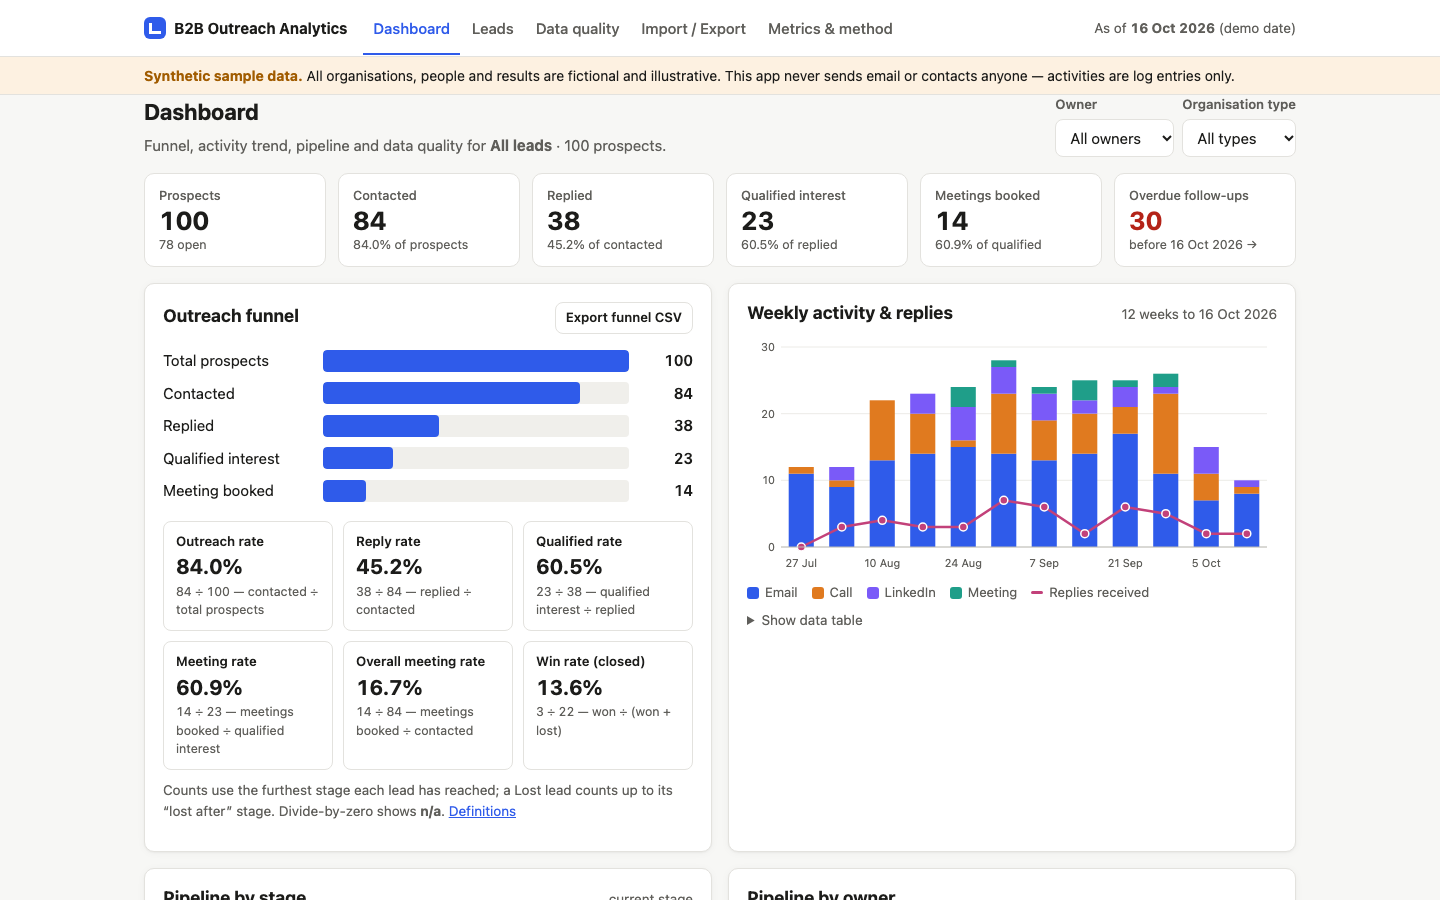
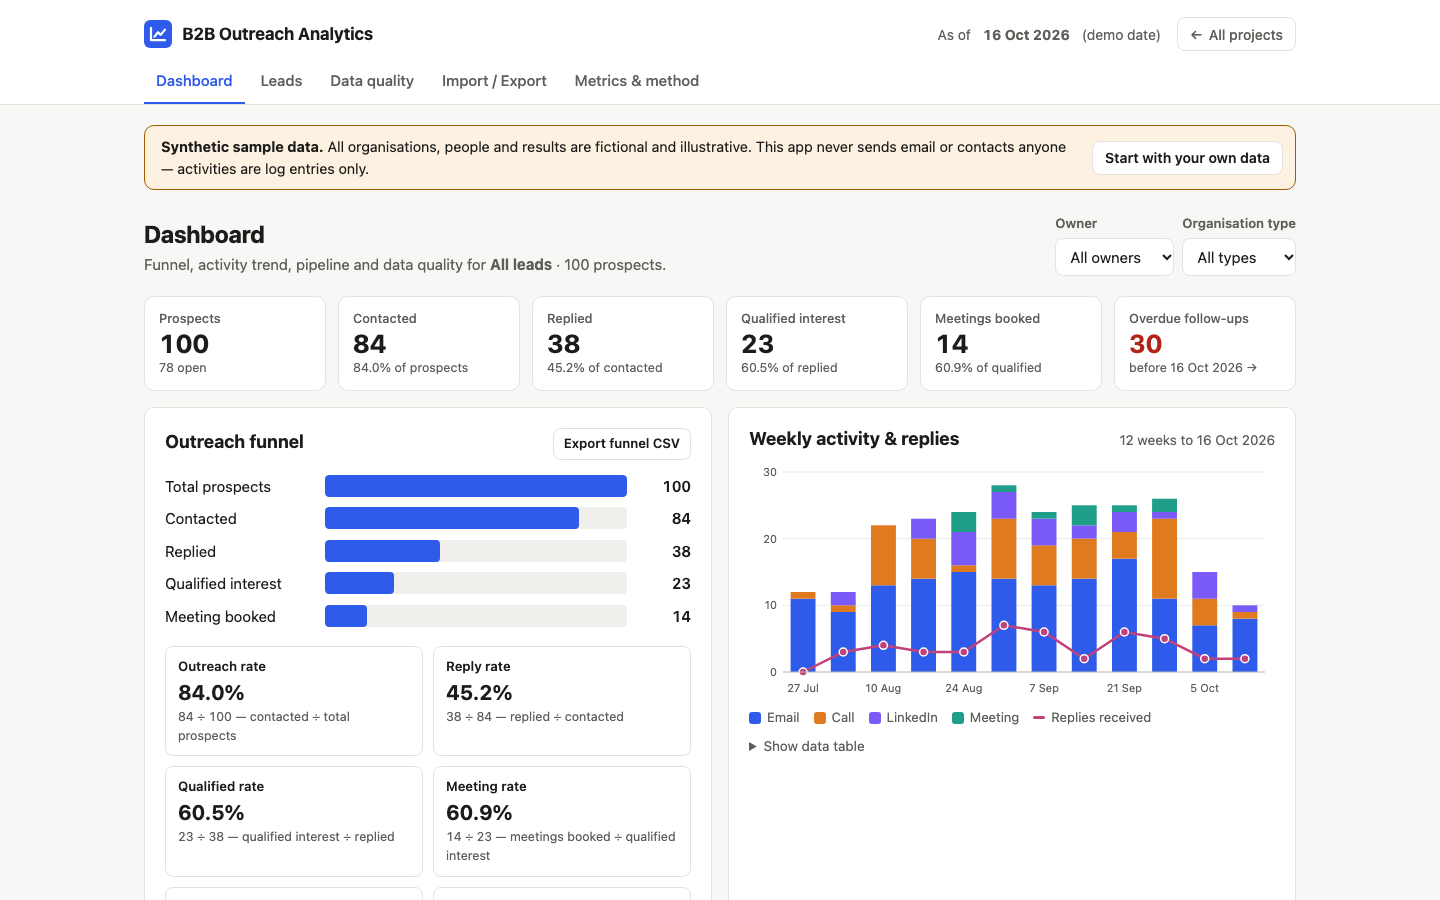
Consistent header and footer, sticky footer, sample loaded on first visit

diff --git a/src/styles.css b/src/styles.css
@@ -58,9 +58,6 @@ body {
   background: var(--bg);
   color: var(--text);
   font: 15px/1.5 var(--font);
-  min-height: 100vh;
-  display: flex;
-  flex-direction: column;
 }
 .num, td.num, th.num, .kpi .value, .tabular { font-variant-numeric: tabular-nums; }
 a { color: var(--accent); }
@@ -79,30 +76,9 @@ p { margin: 0 0 .75rem; }
 .skip:focus { left: 8px; top: 8px; }
 .sr-only { position: absolute; width: 1px; height: 1px; padding: 0; margin: -1px; overflow: hidden; clip: rect(0 0 0 0); white-space: nowrap; border: 0; }
 
-/* Top bar */
-.topbar { background: var(--surface); border-bottom: 1px solid var(--border); position: sticky; top: 0; z-index: 5; }
-.topbar .wrap { display: flex; align-items: center; gap: 16px; min-height: 56px; flex-wrap: wrap; }
-.brand { font-weight: 700; display: flex; align-items: center; gap: 8px; white-space: nowrap; }
-.brand .logo { width: 22px; height: 22px; border-radius: 6px; background: var(--accent); display: inline-block; position: relative; }
-.brand .logo::after { content: ""; position: absolute; inset: 6px 5px 5px 5px; border-left: 3px solid var(--surface); border-bottom: 3px solid var(--surface); }
-.tabs { display: flex; gap: 2px; overflow-x: auto; scrollbar-width: none; flex: 1 1 auto; min-width: 0; }
-.tabs a { text-decoration: none; color: var(--muted); padding: 16px 10px 14px; border-bottom: 2px solid transparent; white-space: nowrap; font-weight: 500; }
-.tabs a:hover { color: var(--text); }
-.tabs a[aria-current="page"] { color: var(--accent); border-bottom-color: var(--accent); }
-.asof { font-size: .85rem; color: var(--muted); white-space: nowrap; }
-@media (max-width: 760px) {
-  .topbar .wrap { gap: 0 12px; padding-top: 8px; }
-  .tabs { order: 3; flex-basis: 100%; }
-  .tabs a { padding: 10px 8px; }
-}
 
-.banner { background: var(--warn-weak); color: var(--text); border-bottom: 1px solid var(--border); font-size: .875rem; }
-.banner .wrap { padding-top: 8px; padding-bottom: 8px; }
-.banner strong { color: var(--warn); }
-.banner.error { background: var(--bad-weak); }
 
 main:focus { outline: none; }
-main { flex: 1; min-width: 0; padding-top: 20px; padding-bottom: 40px; }
 .page-head { display: flex; justify-content: space-between; align-items: flex-end; gap: 12px; flex-wrap: wrap; margin-bottom: 16px; }
 .page-head p { margin: 0; }
 
@@ -260,6 +236,115 @@ dialog::backdrop { background: rgba(20, 20, 19, .45); }
 .status { position: fixed; bottom: 16px; left: 50%; transform: translateX(-50%); background: var(--text); color: var(--bg); padding: 10px 16px; border-radius: 8px; font-size: .9rem; max-width: calc(100vw - 32px); opacity: 0; pointer-events: none; transition: opacity .2s; z-index: 50; }
 .status.show { opacity: 1; }
 
+/* ===== Shared portfolio chrome v1 — identical in all five Dash-boop0 apps (keep in sync) ===== */
+:root { --chrome-ink: #FFFFFF; --chrome-shadow: 0 1px 2px rgba(0, 0, 0, 0.04); --chrome-gutter: 24px; }
+@media (prefers-color-scheme: dark) { :root { --chrome-ink: #141413; --chrome-shadow: none; } }
+@media (max-width: 600px) { :root { --chrome-gutter: 16px; } }
+
+/* Sticky-footer layout: footer sits at the viewport bottom or after the content, never mid-screen. */
+html { background: var(--bg); }
+body { margin: 0; min-height: 100vh; min-height: 100dvh; display: flex; flex-direction: column; background: var(--bg); }
+main.site-main {
+  flex: 1 0 auto; width: 100%; max-width: 1200px; min-width: 0; margin: 0 auto;
+  padding: 32px var(--chrome-gutter) 48px; outline: none;
+}
+body:has(.site-banner:not(:empty):not([hidden])) main.site-main { padding-top: 24px; }
+
+/* Header */
+.site-header { position: sticky; top: 0; z-index: 30; background: var(--surface); border-bottom: 1px solid var(--border); flex: none; }
+.site-header__inner { max-width: 1200px; margin: 0 auto; padding: 0 var(--chrome-gutter); }
+.site-header__top { display: flex; align-items: center; flex-wrap: wrap; gap: 8px 16px; min-height: 56px; padding-top: 12px; }
+.site-brand {
+  display: inline-flex; align-items: center; gap: 10px; min-width: 0; margin-right: auto; height: 36px;
+  color: var(--text); text-decoration: none; font-size: 1.0625rem; font-weight: 700; letter-spacing: -0.005em; line-height: 1.2;
+}
+.site-brand__icon { width: 28px; height: 28px; flex: none; display: block; }
+.site-brand__icon rect { fill: var(--accent); }
+.site-brand__icon .glyph-s { fill: none; stroke: var(--chrome-ink); stroke-linecap: round; stroke-linejoin: round; }
+.site-brand__icon .glyph-f { fill: var(--chrome-ink); }
+.site-brand__name { min-width: 0; overflow: hidden; text-overflow: ellipsis; white-space: nowrap; }
+.site-header__extra { display: flex; align-items: center; gap: 8px 12px; min-width: 0; font-size: 0.875rem; color: var(--muted); }
+.site-header__extra:empty { display: none; }
+.site-header__extra select { min-height: 36px; max-width: min(360px, 40vw); }
+.site-home {
+  display: inline-flex; align-items: center; gap: 6px; flex: none; height: 34px; padding: 0 12px;
+  border: 1px solid var(--border); border-radius: 8px; background: var(--surface);
+  color: var(--muted); font-size: 0.875rem; font-weight: 500; text-decoration: none; white-space: nowrap;
+}
+.site-home:hover { color: var(--text); border-color: var(--accent); }
+.site-tabs {
+  display: flex; gap: 4px; margin: 4px calc(-1 * var(--chrome-gutter)) 0; padding: 0 var(--chrome-gutter);
+  overflow-x: auto; overscroll-behavior-x: contain; scrollbar-width: none; -webkit-overflow-scrolling: touch;
+}
+.site-tabs::-webkit-scrollbar { display: none; }
+.site-tabs a {
+  flex: none; display: block; padding: 10px 12px 11px; border-bottom: 2px solid transparent;
+  color: var(--muted); font-size: 0.9375rem; font-weight: 500; line-height: 1.4; text-decoration: none; white-space: nowrap;
+}
+.site-tabs a:hover { color: var(--text); }
+.site-tabs a[aria-current="page"] { color: var(--accent); border-bottom-color: var(--accent); }
+.site-tabs a:focus-visible { outline: 3px solid var(--accent); outline-offset: -3px; border-radius: 6px; }
+
+/* Synthetic-data banner (with "Start with your own data") */
+.site-banner { width: 100%; max-width: 1200px; margin: 0 auto; padding: 20px var(--chrome-gutter) 0; flex: none; }
+.site-banner:empty, .site-banner[hidden] { display: none; }
+.sample-banner {
+  display: flex; align-items: center; justify-content: space-between; flex-wrap: wrap; gap: 10px 16px;
+  margin: 0; padding: 10px 12px 10px 16px; border: 1px solid var(--warn); border-radius: 10px;
+  background: var(--warn-weak); color: var(--text); font-size: 0.9rem; line-height: 1.5;
+}
+.sample-banner + .sample-banner { margin-top: 8px; }
+.sample-banner.is-error { border-color: var(--bad); background: var(--bad-weak); }
+.sample-banner.is-info { border-color: var(--border); background: var(--surface); }
+.sample-banner__text { flex: 1 1 420px; min-width: 0; margin: 0; }
+.sample-banner__text strong { color: var(--text); }
+.sample-banner__action {
+  flex: none; display: inline-flex; align-items: center; justify-content: center; min-height: 34px; padding: 0 12px;
+  border: 1px solid var(--border); border-radius: 8px; background: var(--surface); color: var(--text);
+  font: inherit; font-size: 0.875rem; font-weight: 600; white-space: nowrap; cursor: pointer;
+}
+.sample-banner__action:hover { border-color: var(--accent); color: var(--accent); }
+
+/* Page titles and cards */
+:where(.site-main) h2 { font-size: 1.125rem; }
+:where(.site-main) h3 { font-size: 1rem; }
+.site-main h1 { font-size: 1.5rem; font-weight: 700; line-height: 1.25; letter-spacing: -0.01em; margin: 0 0 20px; }
+.site-main .page-head:has(h1) { display: flex; flex-wrap: wrap; align-items: flex-end; justify-content: space-between; gap: 8px 16px; margin: 0 0 20px; }
+.site-main .page-head h1 { margin: 0; }
+.site-main .page-head:has(h1) p, .site-main .page-head:has(h1) > .muted, .site-main .page-lead { margin: 4px 0 0; color: var(--muted); max-width: 75ch; }
+:where(.site-main) .card { border: 1px solid var(--border); border-radius: 10px; background: var(--surface); padding: 20px; box-shadow: var(--chrome-shadow); }
+:where(.site-main) .card.empty, :where(.site-main) .empty-state { padding: 48px 24px; text-align: center; }
+:where(.site-main) .card.empty > *, :where(.site-main) .empty-state > * { margin-left: auto; margin-right: auto; max-width: 560px; }
+:where(.site-main) .card.empty h2, :where(.site-main) .empty-state h2, :where(.site-main) .empty-state h3 { font-size: 1.15rem; margin-bottom: 8px; }
+
 /* Footer */
-footer { border-top: 1px solid var(--border); background: var(--surface); font-size: .85rem; color: var(--muted); }
-footer .wrap { padding-top: 14px; padding-bottom: 14px; }
+.site-footer { flex: none; margin-top: auto; border-top: 1px solid var(--border); background: var(--bg); color: var(--muted); font-size: 0.875rem; line-height: 1.5; }
+.site-footer__inner {
+  max-width: 1200px; margin: 0 auto; padding: 24px var(--chrome-gutter);
+  display: flex; flex-wrap: wrap; align-items: center; justify-content: space-between; gap: 8px 24px;
+}
+.site-footer__links { display: flex; flex-wrap: wrap; gap: 6px 20px; }
+.site-footer a { color: var(--muted); text-decoration: underline; text-underline-offset: 3px; }
+.site-footer a:hover { color: var(--text); }
+.site-footer__note { margin: 0; }
+
+@media (max-width: 600px) {
+  main.site-main { padding-top: 20px; padding-bottom: 32px; }
+  body:has(.site-banner:not(:empty):not([hidden])) main.site-main { padding-top: 20px; }
+  .site-header__top { padding-top: 10px; gap: 8px 12px; }
+  .site-brand { font-size: 1rem; height: auto; min-height: 36px; max-width: calc(100% - 144px); }
+  .site-brand__name { white-space: normal; overflow: visible; }
+  .site-header__extra { order: 3; flex: 1 1 100%; }
+  .site-header__extra select { max-width: 100%; width: 100%; }
+  .site-tabs { margin-top: 2px; }
+  .site-tabs a { padding: 10px 10px 11px; }
+  .site-banner { padding-top: 16px; }
+  .sample-banner__action { width: 100%; }
+  .site-main h1 { font-size: 1.3rem; margin-bottom: 16px; }
+  .site-main .page-head:has(h1) { margin-bottom: 16px; }
+  :where(.site-main) .card { padding: 16px; }
+  :where(.site-main) .card.empty, :where(.site-main) .empty-state { padding: 32px 16px; }
+  .site-footer__inner { padding-top: 20px; padding-bottom: 20px; flex-direction: column; align-items: flex-start; }
+}
+@media print { .site-header, .site-footer, .site-banner .sample-banner__action { display: none; } }
+/* ===== end shared portfolio chrome ===== */

diff --git a/src/app.js b/src/app.js
@@ -12,6 +12,8 @@ import { renderMethod } from './ui/method.js';
 import { bindDialog } from './ui/dialog.js';
 
 const SAMPLE_URL = 'sample-data/sample-dataset.json';
+/** Set when the visitor chose to start empty (or reset), so the sample is not auto-loaded again. */
+const START_EMPTY_KEY = `${STORAGE_KEY}.startEmpty`;
 const VIEWS = ['dashboard', 'leads', 'quality', 'data', 'method'];
 
 const ctx = {
@@ -52,6 +54,15 @@ function loadStored() {
   }
 }
 
+function startEmptyChosen() {
+  try { return window.localStorage.getItem(START_EMPTY_KEY) === '1'; } catch { return false; }
+}
+
+/** Remember that the visitor wants their own (empty) workspace rather than the auto-loaded sample. */
+ctx.rememberStartEmpty = () => {
+  try { window.localStorage.setItem(START_EMPTY_KEY, '1'); } catch { /* storage unavailable */ }
+};
+
 function save() {
   try {
     window.localStorage.setItem(STORAGE_KEY, JSON.stringify(ctx.state));
@@ -62,11 +73,11 @@ function save() {
 }
 
 /** Replace state, persist, log and re-render. */
-ctx.commit = (next, message, { log = true } = {}) => {
+ctx.commit = (next, message, { log = true, announce = true } = {}) => {
   ctx.state = log && message ? appendLog(next, message) : next;
   save();
   render();
-  if (message) ctx.announce(message);
+  if (message && announce) ctx.announce(message);
 };
 
 let toastTimer = null;
@@ -83,7 +94,7 @@ ctx.navigate = (view) => {
   else route();
 };
 
-ctx.loadSample = async () => {
+ctx.loadSample = async ({ quiet = false } = {}) => {
   try {
     const res = await fetch(SAMPLE_URL, { cache: 'no-store' });
     if (!res.ok) throw new Error(`HTTP ${res.status}`);
@@ -91,11 +102,11 @@ ctx.loadSample = async () => {
     if (!v.ok) throw new Error(v.errors.join(' '));
     ctx.ui.filters = { ...EMPTY_FILTERS };
     ctx.ui.idFilter = null;
-    ctx.commit(v.state, `Loaded synthetic sample data (${v.state.opportunities.length} prospects).`);
+    ctx.commit(v.state, `Loaded synthetic sample data (${v.state.opportunities.length} prospects).`, { announce: !quiet });
     return true;
   } catch (e) {
     ctx.announce(`Could not load sample data (${e.message}). Serve the folder over http — see README.`);
-    showBanner(`Could not load ${SAMPLE_URL}: ${e.message}. Open the app through a local web server (python3 -m http.server 8000), not as a file.`, true);
+    showBanner(`Could not load ${SAMPLE_URL}: ${e.message}. Open the app through a local web server (python3 -m http.server 8000), not as a file.`, 'error');
     return false;
   }
 };
@@ -113,19 +124,18 @@ ctx.download = (filename, text, type = 'text/csv;charset=utf-8') => {
   ctx.announce(`Downloaded ${filename}`);
 };
 
-function showBanner(html, isError = false) {
-  const b = document.getElementById('banner');
-  b.classList.toggle('error', isError);
-  b.querySelector('.wrap').innerHTML = html;
+function showBanner(html, kind = '', action = '') {
+  document.getElementById('banner').innerHTML = `<div class="sample-banner${kind ? ` is-${kind}` : ''}" role="${kind === 'error' ? 'alert' : 'note'}"><p class="sample-banner__text">${html}</p>${action}</div>`;
 }
 
 function renderBanner() {
   if (!ctx.storageOk) {
-    showBanner('<strong>Browser storage is unavailable.</strong> Changes will be lost when you close this tab — use “Back up data” on the Import / Export page.', true);
+    showBanner('<strong>Browser storage is unavailable.</strong> Changes will be lost when you close this tab — use “Back up data” on the Import / Export page.', 'error');
   } else if (ctx.state.meta?.synthetic) {
-    showBanner('<strong>Synthetic sample data.</strong> All organisations, people and results are fictional and illustrative. This app never sends email or contacts anyone — activities are log entries only.');
+    showBanner('<strong>Synthetic sample data.</strong> All organisations, people and results are fictional and illustrative. This app never sends email or contacts anyone — activities are log entries only.', '',
+      '<button type="button" class="sample-banner__action" data-action="start-own">Start with your own data</button>');
   } else {
-    showBanner('<strong>Your working data.</strong> Stored only in this browser (localStorage). Nothing is uploaded and no email is ever sent — activities are log entries only.');
+    showBanner('<strong>Your working data.</strong> Stored only in this browser (localStorage). Nothing is uploaded and no email is ever sent — activities are log entries only.', 'info');
   }
   const t = ctx.today();
   const custom = ctx.state.settings?.today;
@@ -137,7 +147,7 @@ const RENDERERS = { dashboard: renderDashboard, leads: renderLeads, quality: ren
 function render() {
   renderBanner();
   const view = ctx.ui.view;
-  document.querySelectorAll('.tabs a').forEach((a) => {
+  document.querySelectorAll('#tabs a').forEach((a) => {
     if (a.dataset.tab === view) a.setAttribute('aria-current', 'page');
     else a.removeAttribute('aria-current');
   });
@@ -184,6 +194,15 @@ async function init() {
     if (b.dataset.action === 'load-sample') ctx.loadSample();
     if (b.dataset.action === 'go') ctx.navigate(b.dataset.view);
   });
+  document.getElementById('banner').addEventListener('click', (e) => {
+    if (!e.target.closest('[data-action="start-own"]')) return;
+    ctx.rememberStartEmpty();
+    ctx.ui.filters = { ...EMPTY_FILTERS };
+    ctx.ui.idFilter = null;
+    ctx.ui.pendingImport = null;
+    ctx.commit(emptyState(), 'Sample cleared. Import your own CSV, add a prospect, or load the sample again.');
+    ctx.navigate('dashboard');
+  });
   window.addEventListener('hashchange', route);
   let resizeTimer = null;
   let lastWidth = window.innerWidth;
@@ -196,9 +215,13 @@ async function init() {
   if (stored) {
     ctx.state = stored;
     route();
-  } else {
+  } else if (startEmptyChosen()) {
     route();
-    await ctx.loadSample();
+  } else {
+    // First visit: nothing saved and the sample was never declined, so open the populated demo.
+    route();
+    // Quiet: the synthetic-data banner already explains it; no toast over the dashboard on arrival.
+    await ctx.loadSample({ quiet: true });
   }
 }
 

diff --git a/index.html b/index.html
@@ -10,30 +10,38 @@
 </head>
 <body>
   <a class="skip" href="#main">Skip to content</a>
-  <header class="topbar">
-    <div class="wrap">
-      <div class="brand"><span class="logo" aria-hidden="true"></span>B2B Outreach Analytics</div>
-      <nav class="tabs" aria-label="Main">
+  <header class="site-header">
+    <div class="site-header__inner">
+      <div class="site-header__top">
+        <a class="site-brand" href="#dashboard"><svg class="site-brand__icon" viewBox="0 0 32 32" aria-hidden="true" focusable="false"><rect width="32" height="32" rx="7"/><path class="glyph-s" stroke-width="2.5" d="M8 23V9M8 23h16M12 19l4-5 3 3 5-6"/></svg><span class="site-brand__name">B2B Outreach Analytics</span></a>
+        <div class="site-header__extra" id="asof"></div>
+        <a class="site-home" href="https://dash-boop0.github.io/"><span aria-hidden="true">←</span> All projects</a>
+      </div>
+      <nav class="site-tabs" id="tabs" aria-label="Main">
         <a href="#dashboard" data-tab="dashboard">Dashboard</a>
         <a href="#leads" data-tab="leads">Leads</a>
         <a href="#quality" data-tab="quality">Data quality</a>
         <a href="#data" data-tab="data">Import / Export</a>
         <a href="#method" data-tab="method">Metrics &amp; method</a>
       </nav>
-      <div class="asof" id="asof"></div>
     </div>
   </header>
-  <div class="banner" id="banner" role="note">
-    <div class="wrap"><strong>Synthetic sample data.</strong> All organisations, people and results are fictional. This app never sends email or contacts anyone — activities are log entries only.</div>
-  </div>
-  <main id="main" class="wrap" tabindex="-1">
+  <div class="site-banner" id="banner"></div>
+  <main id="main" class="site-main" tabindex="-1">
     <div id="view"><p class="muted">Loading…</p></div>
     <noscript><p class="errors">This app needs JavaScript enabled.</p></noscript>
   </main>
   <dialog id="dialog" aria-labelledby="dialog-title"></dialog>
   <div id="status" class="status" role="status" aria-live="polite"></div>
-  <footer>
-    <div class="wrap">Portfolio project by <a href="https://dash-boop0.github.io/">Dash-boop0</a> · <a href="https://github.com/Dash-boop0/b2b-outreach-analytics">Source on GitHub</a> · Sample data is synthetic</div>
+  <footer class="site-footer">
+    <div class="site-footer__inner">
+      <nav class="site-footer__links" aria-label="Portfolio links">
+        <a href="https://dash-boop0.github.io/"><span aria-hidden="true">←</span> All projects</a>
+        <a href="https://github.com/Dash-boop0/b2b-outreach-analytics">Source on GitHub</a>
+        <a href="https://github.com/Dash-boop0/b2b-outreach-analytics/blob/main/LICENSE">MIT licence</a>
+      </nav>
+      <p class="site-footer__note">Sample data is synthetic · Your data stays in this browser</p>
+    </div>
   </footer>
   <script type="module" src="src/app.js"></script>
 </body>

diff --git a/src/ui/data.js b/src/ui/data.js
@@ -192,6 +192,7 @@ export function bindData(ctx, root) {
         if (!window.confirm('Delete all data stored in this browser for this app? This cannot be undone.')) break;
         ctx.ui.idFilter = null;
         ctx.ui.pendingImport = null;
+        ctx.rememberStartEmpty();
         ctx.commit(emptyState(), 'All data deleted. Start by importing a CSV or loading the sample.');
         break;
       case 'today-apply': {

diff --git a/README.md b/README.md
@@ -68,7 +68,8 @@ npm run generate  # node scripts/generate-sample-data.mjs [--seed 20261016] [--o
 
 ## How to use
 
-1. The first visit loads the synthetic sample automatically. The header shows the as-of date.
+1. The first visit loads the synthetic sample automatically. The header shows the as-of date. Click **Start with your own data**
+   in the sample banner to clear it; the choice is remembered on reload, and **Load sample data** brings the sample back.
 2. **Dashboard:** read the funnel and its denominators. Scope it by owner or type, or click **Overdue follow-ups** to jump to those leads.
 3. **Leads:** filter, then click an organisation to edit status, priority, owner, next action or follow-up date, or to log an activity.
 4. **Data quality:** run **Preview clean-up**, then **Apply**. Then work through the duplicate pairs: merge or mark them as not a duplicate.
